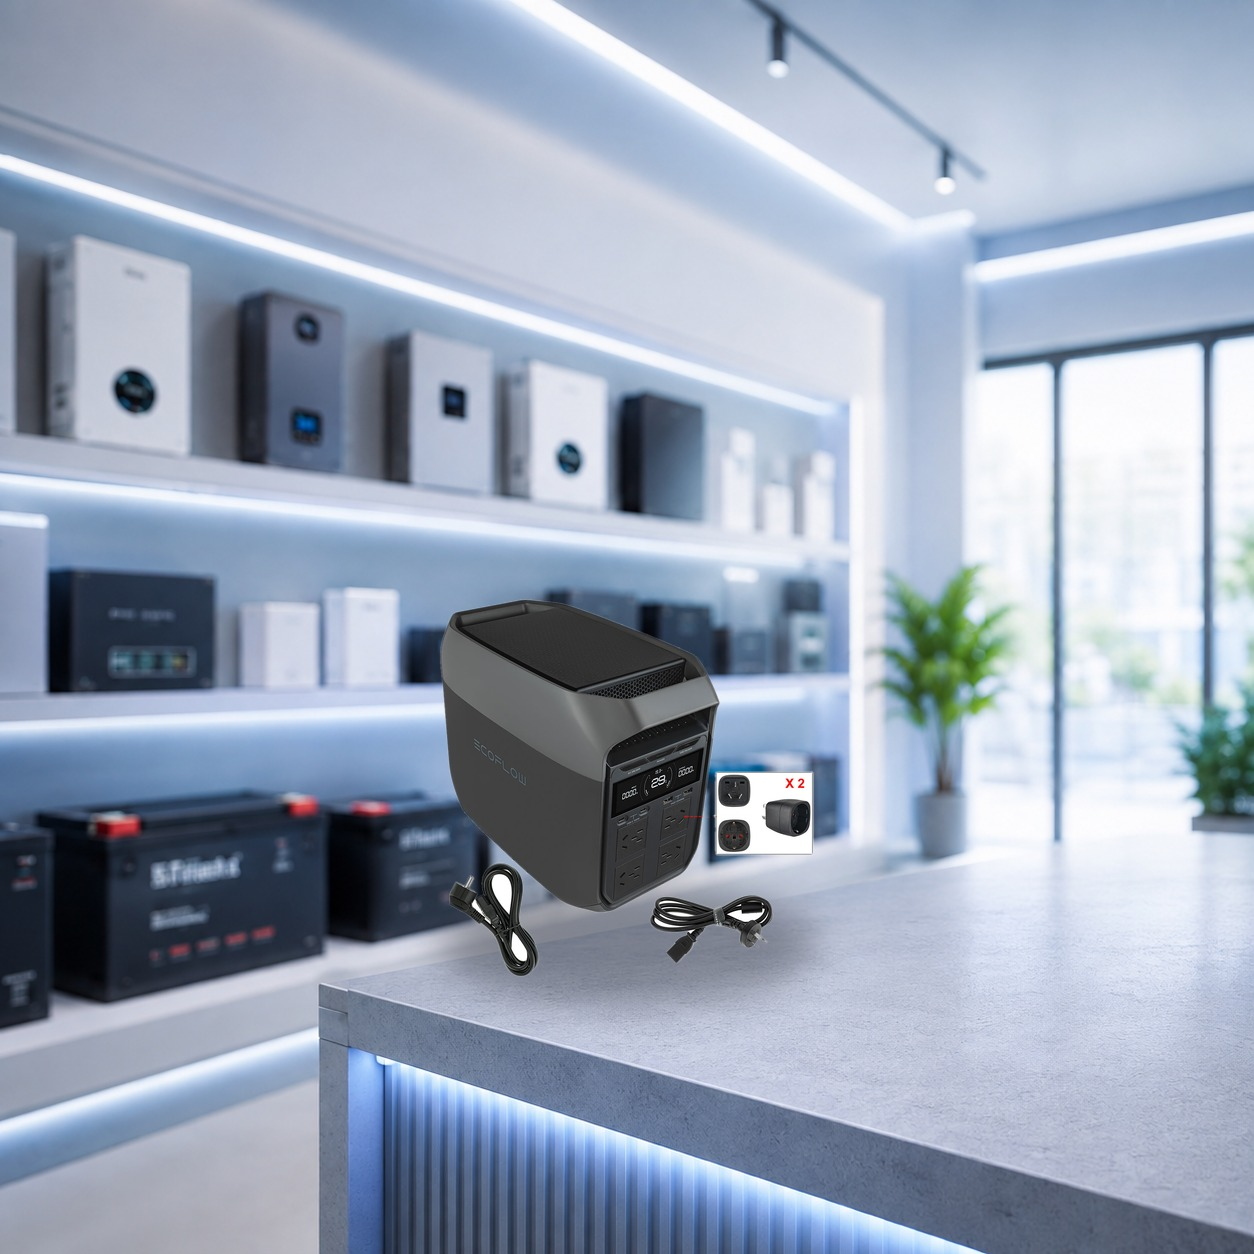
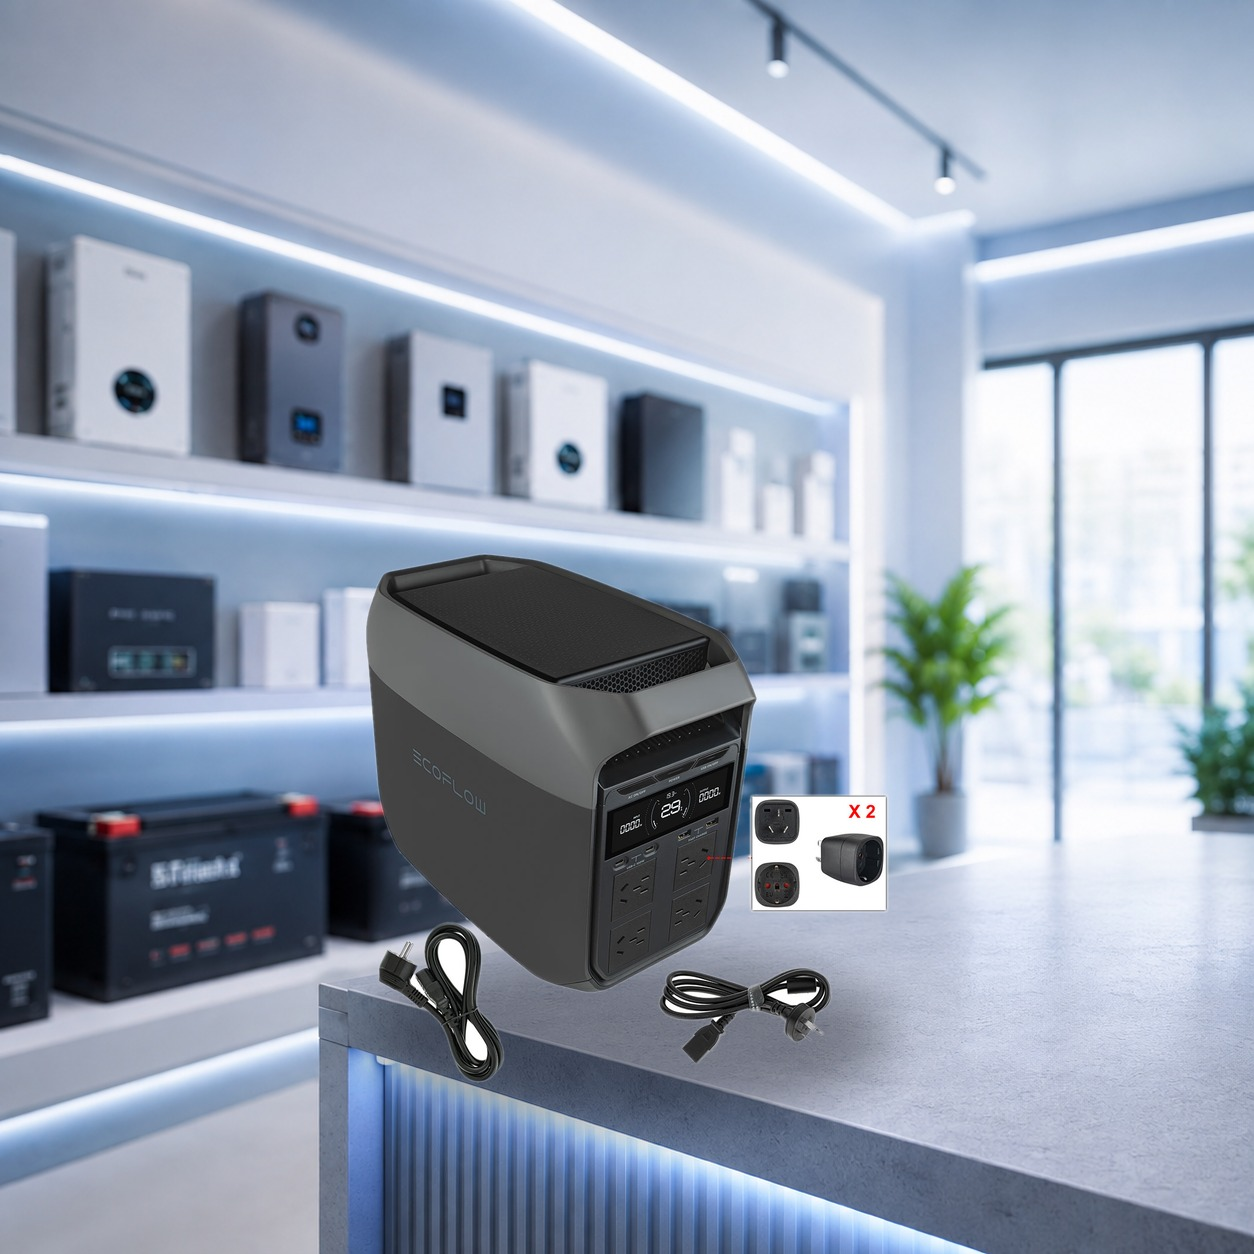
fix: UPS photos were floating above the table, now bigger and grounded
- Fixed source resolution: after image_link starts pointing at our own
  products_studio/ output, the pipeline was accidentally re-cutting the
  already-composited photo instead of the original. It now always looks
  up the original in assets/images/products or assets/images/komp.
- Bumped UPS width/height ratio for a bigger product on the card.
- Lowered the anchor point so the product actually touches the table.
- Added a source-crop option for photos that bundle loose accessories
  below the main unit (e.g. 150649), so the product -- not the
  accessories -- anchors to the table.

Changed region(s): [[0.2799, 0.4354, 0.7153, 0.933]]

diff --git a/scripts/place_product_on_background.py b/scripts/place_product_on_background.py
@@ -53,6 +53,15 @@ STATIC_OVERRIDES = {
     "151777": "cable_pair.jpg",
 }
 
+# Some source photos show the main unit plus loose accessories laid out
+# below it (cables, plugs). Anchoring to the whole photo's bounding box
+# then plants the accessories on the table and leaves the actual product
+# floating above them. For those ids, crop the source to just the product
+# before cutting it out. Values are (top, bottom) as a fraction of height.
+SOURCE_CROP = {
+    "150649": (0.0, 0.58),
+}
+
 # One background template per product category. Anchor is where the
 # product's bottom-center should land (fractions of background width/height);
 # width_ratio is the product's rendered width as a fraction of background width.
@@ -69,8 +78,8 @@ PROFILES = {
     ),
     "ups": dict(
         bg="image_2026-08-28_10-54-04.png",
-        anchor_x=0.50, anchor_y=0.78, width_ratio=0.30, height_ratio=0.55,
-        shadow_opacity=90,
+        anchor_x=0.50, anchor_y=0.865, width_ratio=0.42, height_ratio=0.60,
+        shadow_opacity=110,
     ),
     "cable": dict(
         bg="image_2026-08-28_10-24-59.png",
@@ -90,9 +99,12 @@ CATEGORY_TO_PROFILE = {
 }
 
 
-def cutout_product(path, thresh=15):
+def cutout_product(path_or_image, thresh=15):
     """Return an RGBA cutout tightly cropped to the non-background pixels."""
-    img = Image.open(path).convert("RGB")
+    if isinstance(path_or_image, Image.Image):
+        img = path_or_image.convert("RGB")
+    else:
+        img = Image.open(path_or_image).convert("RGB")
     w, h = img.size
     filled = img.copy()
     sentinel = (1, 254, 1)
@@ -170,12 +182,37 @@ def process_override(product, out_path):
     img.save(out_path, quality=92)
 
 
+def original_source_for(product):
+    """Locate the plain studio photo for a product, ignoring image_link --
+    once a product has been processed, image_link points at our own
+    products_studio/ output, which must never be fed back into the cutout
+    pipeline as if it were a fresh source."""
+    pid = product["id"]
+    candidates = [
+        os.path.join(ROOT, "assets", "images", "products", f"{pid}_1.jpg"),
+        os.path.join(ROOT, "assets", "images", "komp", f"{pid}.jpg"),
+        os.path.join(ROOT, "assets", "images", "komp", f"{pid}_1.jpg"),
+    ]
+    for path in candidates:
+        if os.path.isfile(path):
+            return path
+    return None
+
+
 def process_pipeline(product, profile, out_path):
-    src = os.path.join(ROOT, product["image_link"])
-    if not os.path.isfile(src):
-        print(f"skip {product['id']}: source not found {src}")
+    src = original_source_for(product)
+    if not src:
+        print(f"skip {product['id']}: original source not found")
         return False
-    cutout = cutout_product(src)
+    crop = SOURCE_CROP.get(product["id"])
+    if crop:
+        img = Image.open(src).convert("RGB")
+        w, h = img.size
+        top, bottom = crop
+        img = img.crop((0, int(h * top), w, int(h * bottom)))
+        cutout = cutout_product(img)
+    else:
+        cutout = cutout_product(src)
     bg_path = os.path.join(BG_DIR, profile["bg"])
     result = compose(bg_path, cutout, profile)
     result.save(out_path, quality=92)
